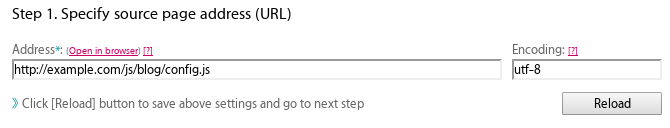
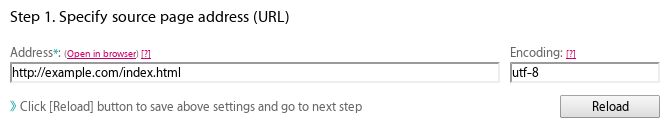
bug fix: page content

diff --git a/blog/i/about.md b/blog/i/about.md
@@ -93,7 +93,7 @@ title: 关于该静态博客系统
 
     ![图：开始页面。](data/images/feed01.png)
 
-2.  在「Address」一栏填写 `js/blog/config.js` 文件对应的完整 URL ，即指定了文章列表信息的提取来源，然后在「Encoding」一栏指定内容编码为「utf-8」。按「Reload」按钮继续。
+2.  在「Address」一栏填写 `index.html` 文件对应的完整 URL ，即指定了文章列表信息的提取来源，然后在「Encoding」一栏指定内容编码为「utf-8」。按「Reload」按钮继续。
 
     ![图：文章提取来源地址。](data/images/feed02.png)
 
